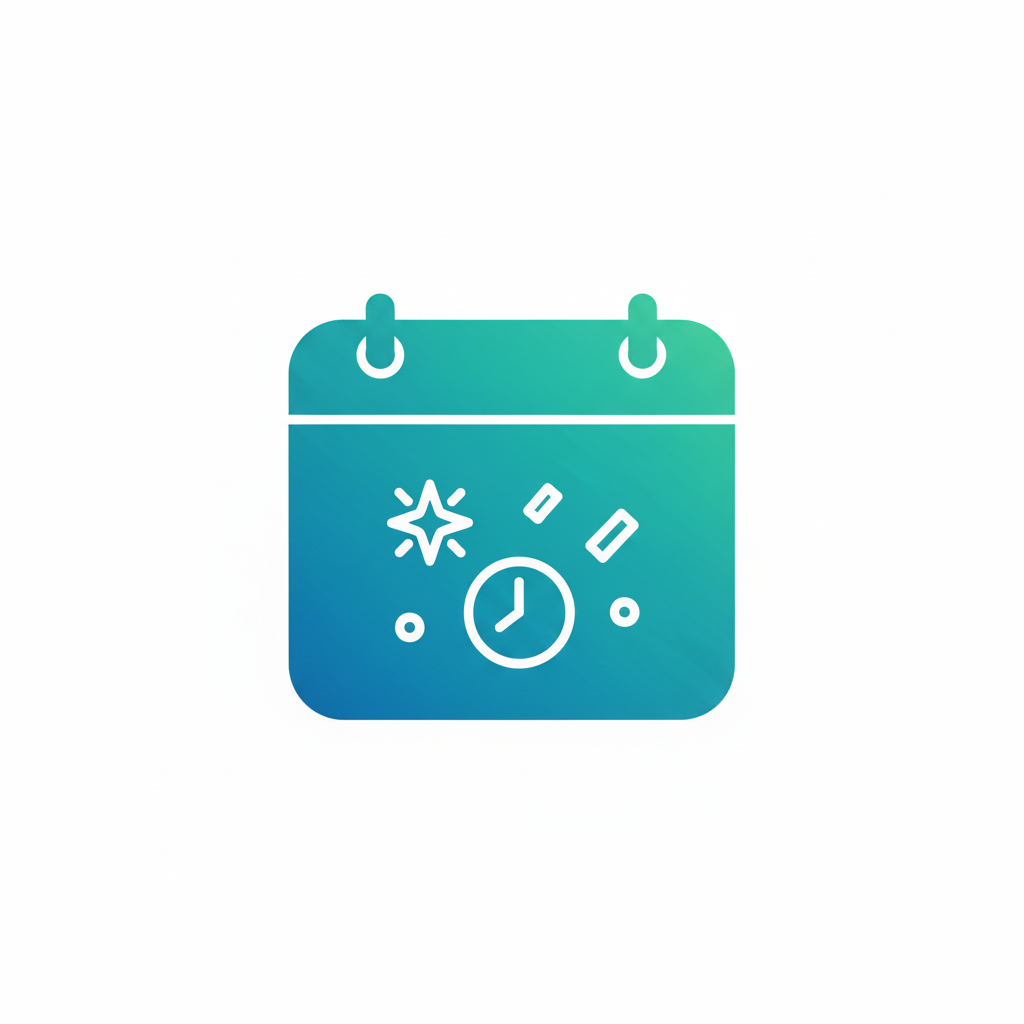
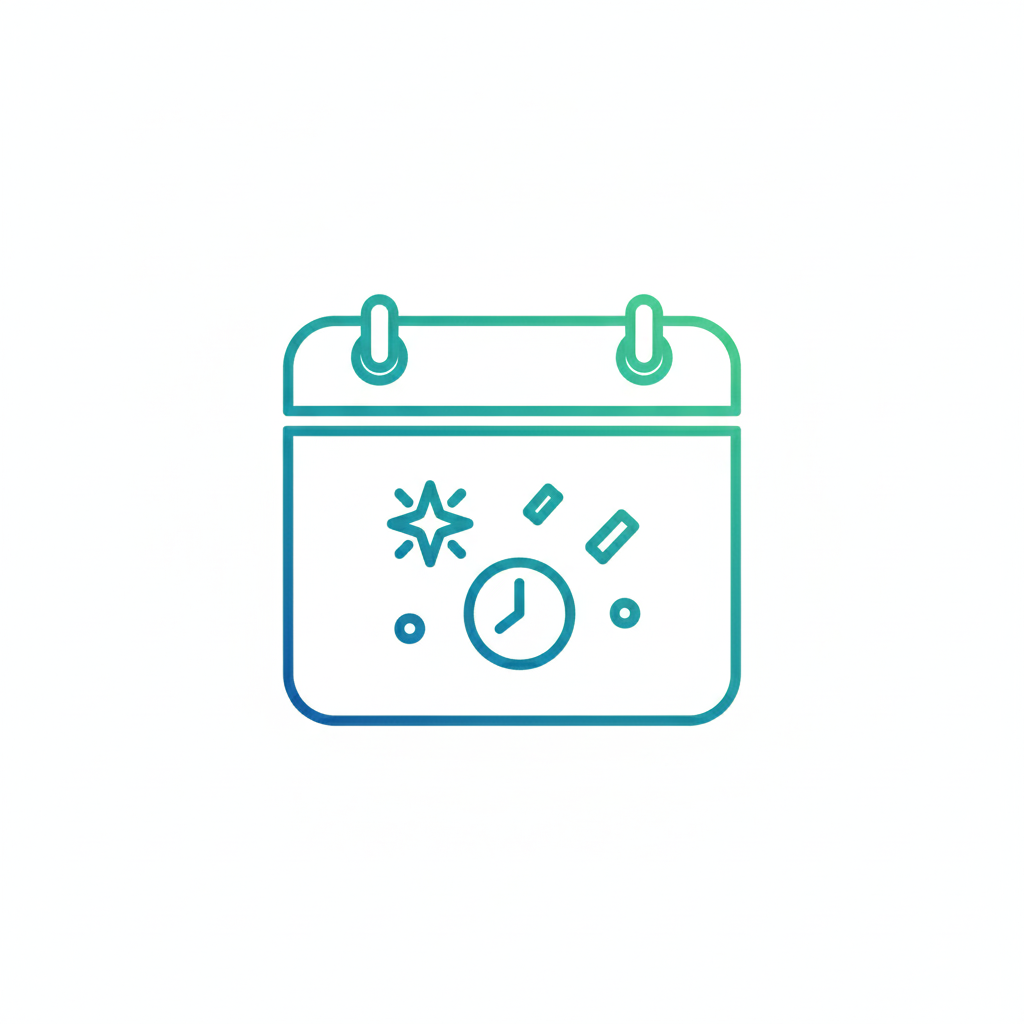
11.09 프론트
하단 탭 아이콘 변경 & 작성 페이지 드롭다운 대신 게시판 페이지 태그와 동일하게 구현

Changed region(s): [[0.25, 0.2812, 0.75, 0.7188]]

diff --git a/Front/Main/Community/Write.js b/Front/Main/Community/Write.js
@@ -1,4 +1,4 @@
-import { Text, View, TextInput, TouchableOpacity, StyleSheet } from "react-native";
+import { Text, View, TextInput, TouchableOpacity, StyleSheet, Keyboard, KeyboardAvoidingView, TouchableWithoutFeedback, ScrollView, Touchable } from "react-native";
 import { useNavigation } from "@react-navigation/native";
 import Header from "../../Menu/Header";
 import Tab from "../../Menu/Bottom_Tab";
@@ -16,11 +16,18 @@ export default function Write() {
     const [content, setContent] = useState('');
     const [selectedTag, setSelectedTag] = useState(null);
 
+    const tags = ['전체', '정보', '식단', '할인', '운동인증', '후기'];
+
     const handleSubmit = async () => {
         if (!title.trim() || !content.trim()) {
             Alert.alert("오류", "제목과 내용을 모두 입력해주세요!");
             return;
         }
+        if (!selectedTag) {
+            Alert.alert("오류", "카테고리를 선택해주세요!");
+            return;
+        }
+
         try {
             // 👉 백엔드에 게시글 등록 요청 (IP와 포트는 너 프로젝트에 맞게 바꿔!)
             const response = await axios.post(`${API_URL}/write`, {
@@ -42,23 +49,18 @@ export default function Write() {
         }
     };
 
-        
-        
-
-
-
-
     return(
-        <View style={styles.container}>
+        <KeyboardAvoidingView style={styles.container}>
             <Header />
-            
+
+            <TouchableWithoutFeedback onPress={() => Keyboard.dismiss()}>
              <View style={styles.content}>
             {/* ✅ 제목 + 드롭다운을 한 줄에 가로 배치 */}
             <View style={styles.headerRow}>
                 <Text style={styles.title}>게시글 작성</Text>
 
                 {/* ✅ 여기에 드롭다운 추가 */}
-                <RNPickerSelect
+                {/* <RNPickerSelect
                     onValueChange={(value) => setSelectedTag(value)}
                     items={[
                         { label: '전체', value: '전체' },
@@ -73,9 +75,35 @@ export default function Write() {
                         inputIOS: styles.dropdown,
                         inputAndroid: styles.dropdown,
                     }}
-                />
-            </View>
+                /> */}
 
+                <ScrollView
+            horizontal
+            showsHorizontalScrollIndicator={false}
+            style={styles.tagContainer}
+          >
+            {tags.map((tag) => (
+              <TouchableOpacity
+                key={tag}
+                style={[
+                  styles.tagButton,
+                  selectedTag === tag && styles.activeTagButton,
+                ]}
+                onPress={() => setSelectedTag(tag)}
+              >
+                <Text
+                  style={[
+                    styles.tagText,
+                    selectedTag === tag && styles.activeTagText,
+                  ]}
+                >
+                  # {tag}
+                </Text>
+              </TouchableOpacity>
+            ))}
+          </ScrollView>
+            </View>
+            <View>
                 <TextInput
                     style={styles.input}
                     placeholder="제목"
@@ -96,10 +124,12 @@ export default function Write() {
                 <TouchableOpacity style={styles.button} onPress={handleSubmit}>
                     <Text style={styles.buttonText}>등록</Text>
                 </TouchableOpacity>
+            
             </View>
-
+            </View>
+            </TouchableWithoutFeedback>
             <Tab />
-        </View>
+        </KeyboardAvoidingView>
     )
 }
 
@@ -112,10 +142,15 @@ const styles = StyleSheet.create({
         flex: 1,
         padding: 20,
     },
+     headerRow: {
+    marginBottom: 10,
+    },
     title: {
+
         fontSize: 24,
         fontWeight: '700',
-        marginBottom: 20,
+        marginTop: -20,
+        marginBottom: 30,
     },
     input: {
         borderWidth: 1,
@@ -130,6 +165,31 @@ const styles = StyleSheet.create({
     textarea: {
         height: 150,
     },
+     tagContainer: {
+        flexGrow: 0,
+        marginBottom: 25,
+    },
+    tagButton: {
+        paddingVertical: 8,
+        paddingHorizontal: 16,
+        borderRadius: 20,
+        backgroundColor: '#f9f9f9',
+        marginRight: 10,
+        borderWidth: 1,
+        borderColor: '#e0e0e0',
+    },
+    activeTagButton: {
+        borderColor: '#1E90FF',
+        backgroundColor: '#fff',
+    },
+    tagText: {
+        fontSize: 14,
+        fontWeight: '600',
+        color: '#555',
+    },
+    activeTagText: {
+        color: '#1E90FF',
+    },
     button: {
         backgroundColor: '#1E90FF',
         paddingVertical: 15,
@@ -141,12 +201,6 @@ const styles = StyleSheet.create({
         color: '#fff',
         fontSize: 18,
         fontWeight: '600',
-    },
-    headerRow: {
-    flexDirection: 'row',        // 가로로 배치
-    alignItems: 'center',
-    justifyContent: 'space-between',
-    marginBottom: 20,
     },
     dropdown: {
         fontSize: 16,

diff --git a/Front/Menu/Bottom_Tab.js b/Front/Menu/Bottom_Tab.js
@@ -9,35 +9,45 @@ export default function Tab() {
   return (
     <SafeAreaView style={styles.safeArea} edges={['bottom']}>
       <View style={styles.container}>
-        <TouchableOpacity style={styles.tabButton} onPress={() => navigation.replace("Home")}>
-          <Image 
-            source={require('../assets/home (3).png')} 
-            style={[{width: 45, height: 45} , { opacity: route.name === 'Home' ? 1 : 0.3 }]} 
-          />
-        </TouchableOpacity>
+       <TouchableOpacity style={styles.tabButton} onPress={() => navigation.replace("Home")}>
+  <Image 
+    source={route.name === 'Home' 
+      ? require('../assets/home (2).png') 
+      : require('../assets/home.png')} 
+    style={{width: 50, height: 50}} 
+  />
+</TouchableOpacity>
         <TouchableOpacity style={styles.tabButton} onPress={() => navigation.replace("Community")}>
           <Image 
-            source={require('../assets/community (2).png')} 
-            style={[{width: 60, height: 60} , { opacity: route.name === 'Community' ? 1 : 0.3 }]} 
-          />
+    source={route.name === 'Community' 
+      ? require('../assets/community (2).png') 
+      : require('../assets/community.png')} 
+    style={{width: 65, height: 65}} 
+  />
         </TouchableOpacity>
         <TouchableOpacity style={styles.tabButton} onPress={() => navigation.replace("Event")}>
           <Image 
-            source={require('../assets/event.png')} 
-            style={[{width: 60, height: 60} , { opacity: route.name === 'Event' ? 1 : 0.3 }]} 
-          />
+    source={route.name === 'Event' 
+      ? require('../assets/event (2).png') 
+      : require('../assets/event.png')} 
+    style={{width: 65, height: 65}} 
+  />
         </TouchableOpacity>
         <TouchableOpacity style={styles.tabButton} onPress={() => navigation.replace("Wishlist")}>
           <Image 
-            source={require('../assets/wishlist.png')} 
-            style={[{width: 50, height: 50} , { opacity: route.name === 'Wishlist' ? 1 : 0.3 }]} 
-          />
+    source={route.name === 'Wishlist' 
+      ? require('../assets/wishlist (2).png') 
+      : require('../assets/wishlist.png')} 
+    style={{width: 55, height: 55}} 
+  />
         </TouchableOpacity>
         <TouchableOpacity style={styles.tabButton} onPress={() => navigation.replace("My")}>
-          <Image 
-            source={require('../assets/mypage (2).png')} 
-            style={[{width: 70, height: 65} , { opacity: route.name === 'My' ? 1 : 0.3 }]} 
-          />
+           <Image 
+    source={route.name === 'My' 
+      ? require('../assets/mypage (2).png') 
+      : require('../assets/mypage.png')} 
+    style={{width: 75, height: 65}} 
+  />
         </TouchableOpacity>
       </View>
     </SafeAreaView>

diff --git a/Front/Main/Mypage/Mypage.js b/Front/Main/Mypage/Mypage.js
@@ -35,7 +35,7 @@ export default function My() {
 
                 const mappedData = [
                     { label: '이름', key: 'name', value: data.name },
-                    { label: '성별', key: 'gender', value: data.gender === 'male' ? 'male' : 'female' },
+                    { label: '성별', key: 'gender', value: data.gender === 'male' ? '남성' : '여성' },
                     { label: '생년월일', key: 'birthdate', value: data.birthdate },
                     { label: '연락처', key: 'contact', value: data.contact },
                     { label: '이메일', key: 'email', value: data.email },

diff --git a/Front/User/Login.js b/Front/User/Login.js
@@ -30,7 +30,6 @@ export default function Login() {
       if (res.data.success) {
         // ✅ 로그인 성공 시 user_id를 저장 (My.js에서 불러올 수 있게)
         await AsyncStorage.setItem("user_id", id);
-        await AsyncStorage.setItem("user_name", res.data.name);
 
         Alert.alert("로그인 성공", `${id}님 환영합니다!`);
         navigation.replace("Home"); // ✅ Home 페이지로 이동
